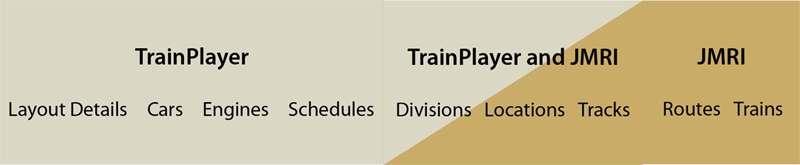
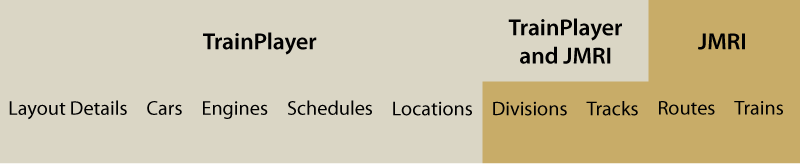
Refine Help

Changed region(s): [[0.0, 0.0, 1.0, 1.0], [0.1562, 0.1818, 0.4062, 0.4242], [0.875, 0.1818, 0.9375, 0.3939]]

diff --git a/Subroutines/o2o/help.html b/Subroutines/o2o/help.html
@@ -1,30 +1,36 @@
 <!-- o2o help section html -->
 <h2>o2o Subroutine</h2>
 <h3>Description</h3>
-<p>The ops to ops (o2o) subroutine is a group of utilities that are designed to be the glue that allows JMRI Operations Pro to be the operations engine for TrainPlayer©. The idea is to expand the capability of TrainPlayer©'s Advanced Ops feature to include the flexibility of Operations Pro, while also eleminating the tedium of keeping two databases synchronised.</p>
+<p>The ops to ops (o2o) subroutine is a group of utilities that are designed to be the glue that allows JMRI Operations Pro to be the operations engine for TrainPlayer©. The idea is to expand the capability of TrainPlayer©'s Advanced Ops feature to include the flexibility of Operations Pro, while also eleminating the tedium of keeping two data sets synchronised.</p>
 <p>o2o will automatically export a built train or switchlist to TrainPlayer when the Pattern Scripts window is open and the o2o subroutine is included. To disable o2o export, Remove o2o from the Pattern Scripts window or close (not hide) the Pattern Scripts window.</p>
 <h3>How to use this subroutine</h3>
 <p>Before any of these buttons are pressed, export your layout from TrainPlayer. The QuickKeys for TrainPlayer subroutines have to be added to TrainPlayer before your TrainPlayer layout can be exported. Refer to the Quick Keys documentation.</p>
 <p><A HREF="https://github.com/gar-codespace/QuickKeys-for-TrainPlayer">The Quick Keys page on GitHub</A></p>
 <h4>Initialize Railroad</h4>
-<p>Pressing this button erases any existing JMRI so a new JMRI railroad can be built from the TrainPlayer export. The Routes and Trains XML files are backed up, the others are initialized.</p>
+<p>Pressing this button initializes the Locations, Cars, and Engines data sets so a new JMRI railroad can be built from the TrainPlayer export. The Routes and Trains XML files are backed up.</p>
 <h4>Import Locations</h4>
-<p>Pressing this button builds a whole new JMRI railroad from the TrainPlayer export. If you are using jPlus, the extended data you entered into the TrainPlayer layout will be added. Additionally, when changes are made to the Locations tab of TrainPlayer's Advanced Ops window, pressing this button will update your layout.</p>
+<p>Pressing this button builds a whole new JMRI railroad from the TrainPlayer export data. If you are using jPlus, the extended data you entered into the TrainPlayer layout will be added.</p>
+<p>Additionally, when making any subsequent changes to the Locations panel of TrainPlayer's Advanced Ops window, re-export your TrainPlayer layout and press this button to update your JMRI data.</p>
 <h4>Import Industries</h4>
-<p>Press this button when you have made changes to TrainPlayers Advanced Ops Industries tab, This will update your spurs. Any changes you have made to your rolling stock are also updated.</p>
+<p>Press this button when you have made changes to TrainPlayers Advanced Ops Industries panel, This will update your spurs and their schedules. Any changes you have made to your rolling stock are also updated.</p>
 <h4>Import Cars</h4>
 <p>Press this button when you have made changes to the rolling stock on your TrainPlayer layout.</p>
 <h3>Who does what</h3>
 <p>One of the primary purposes of o2o is to eliminate duplication between your TrainPlayer and JMRI layouts. As much as possible, layout maintenance is done on your TrainPlayer layout and the changes are then pushed to your JMRI layout.</p>
 <p>The table below shows which program manages which elements of your layout.</p>
 <img src="../Subroutines/o2o/img/Who_Does_What.png" alt="<Who Does What Image>">
+<p>Use TrainPlayer to manage Layout Details, Cars, Engines, Schedules, and Locations.</p>
+<p>Use TrainPlayer to define Divisions and Tracks, and use JMRI to implement the details.</p>
+<p>Use JMRI to manage all aspects of Routes and Trains.</p>
+<p>As your JMRI layout becomes more nuanced, data set management will by necessity be shared (but not duplicated) between the two programs.</p>
 <h3>Subroutine Panel</h3>
 <p>Subroutines.o2o.View.ManageGui</p>
 <img src="../Subroutines/o2o/img/o2o_Subroutine.png" alt="<o2o Subroutine Image>">
 <h4>User Settings for the o2o section of configFile.json</h4>
 <pre>
   The o2o section of the configuration file has the following user editable settings.
-  The following are TrainPlayer car code lists for types of equipment, based on default TrainPlayer values.
+  The TrainPlayer car code lists are grouped by types of equipment, based on default TrainPlayer values.
+  Any car code not listed is considered a manifest freight car.
   Custom car codes added to TrainPlayer would also be added here.
 
   "US" : {

diff --git a/Subroutines/Throwback/help.html b/Subroutines/Throwback/help.html
@@ -1,7 +1,7 @@
 <!-- Throwback help section html -->
 <h2>Throwback Subroutine</h2>
 <h3>Description</h3>
-<p>The Throwback Subroutine is modeled on the idea of version control software. Commits are named and saved. In so doing snapshots are taken of the railroads data.</p>
+<p>The Throwback Subroutine is modeled on the idea of version control software. Commits are named and saved. In so doing snapshots are taken of the JMRI railroad data sets.</p>
 <p>The commit then serves as a setpoint that allows any of the JMRI data sets to be reset to.</p>
 <p>Commits are useful for testing 'What if?' ideas, or to simulate an ops session in advance of the actual ops session, or for testing the movement of rolling stock ETC.</p>
 <p>This subroutine does not interact with JMRIs Auto Save or Auto Backup feature, they run as configured.</p>
@@ -9,7 +9,7 @@
 <p>The name of each commit is entered into the text box of the Total Commits frame. Enter the name BEFORE pressing the Add New Commit button.</p>
 <p>Presing the Add New Commit button will add a new commit.</p>
 <p>Pressing the Delete All Commits brings up a choice to confirm or cancel the commit. Pressing the Confirm button erases all saved commits, so be careful!</p>
-<p>In the Actions panel, the Previous and Next buttons facilitate scrolling through your collection of commits. The list is ordered by creation date/time.</p>
+<p>In the Action panel, the Previous and Next buttons facilitate scrolling through your collection of commits. The list is ordered by creation date/time.</p>
 <p>Select any combination of data sets to be thrown back by clicking its check box.</p>
 <p>Pressing the Throwback button sets the selected data sets to the displayed commit.</p>
 <h3>Plugin Layout</h3>
